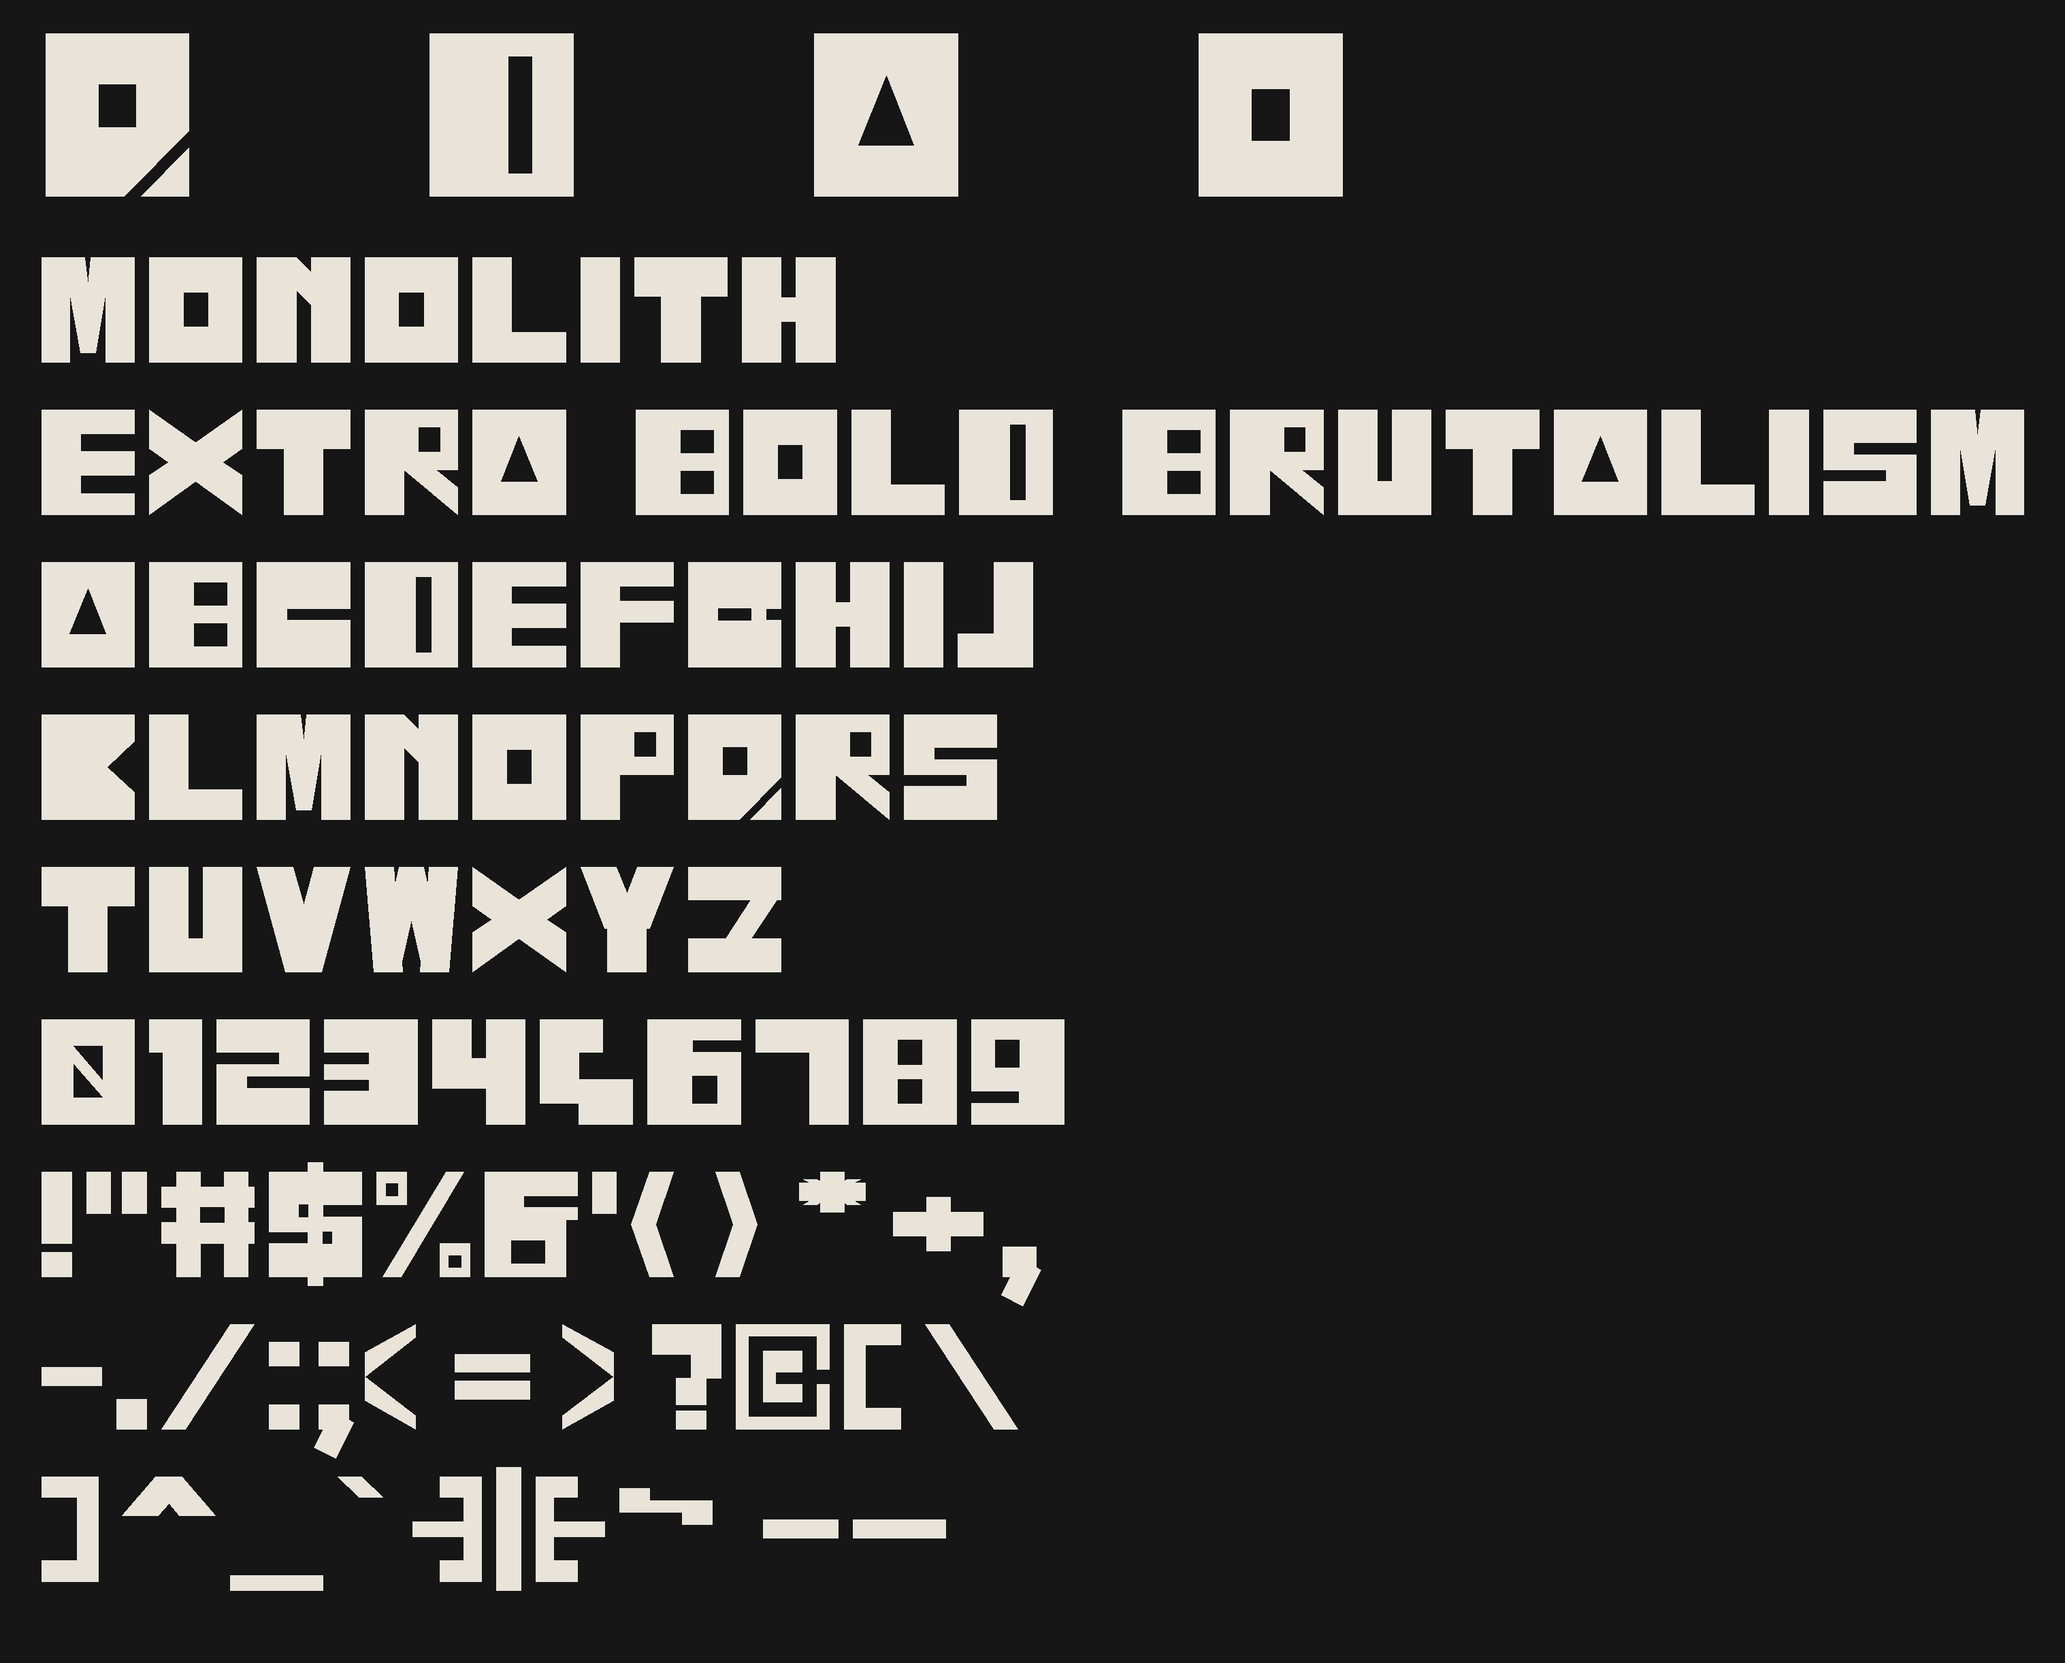
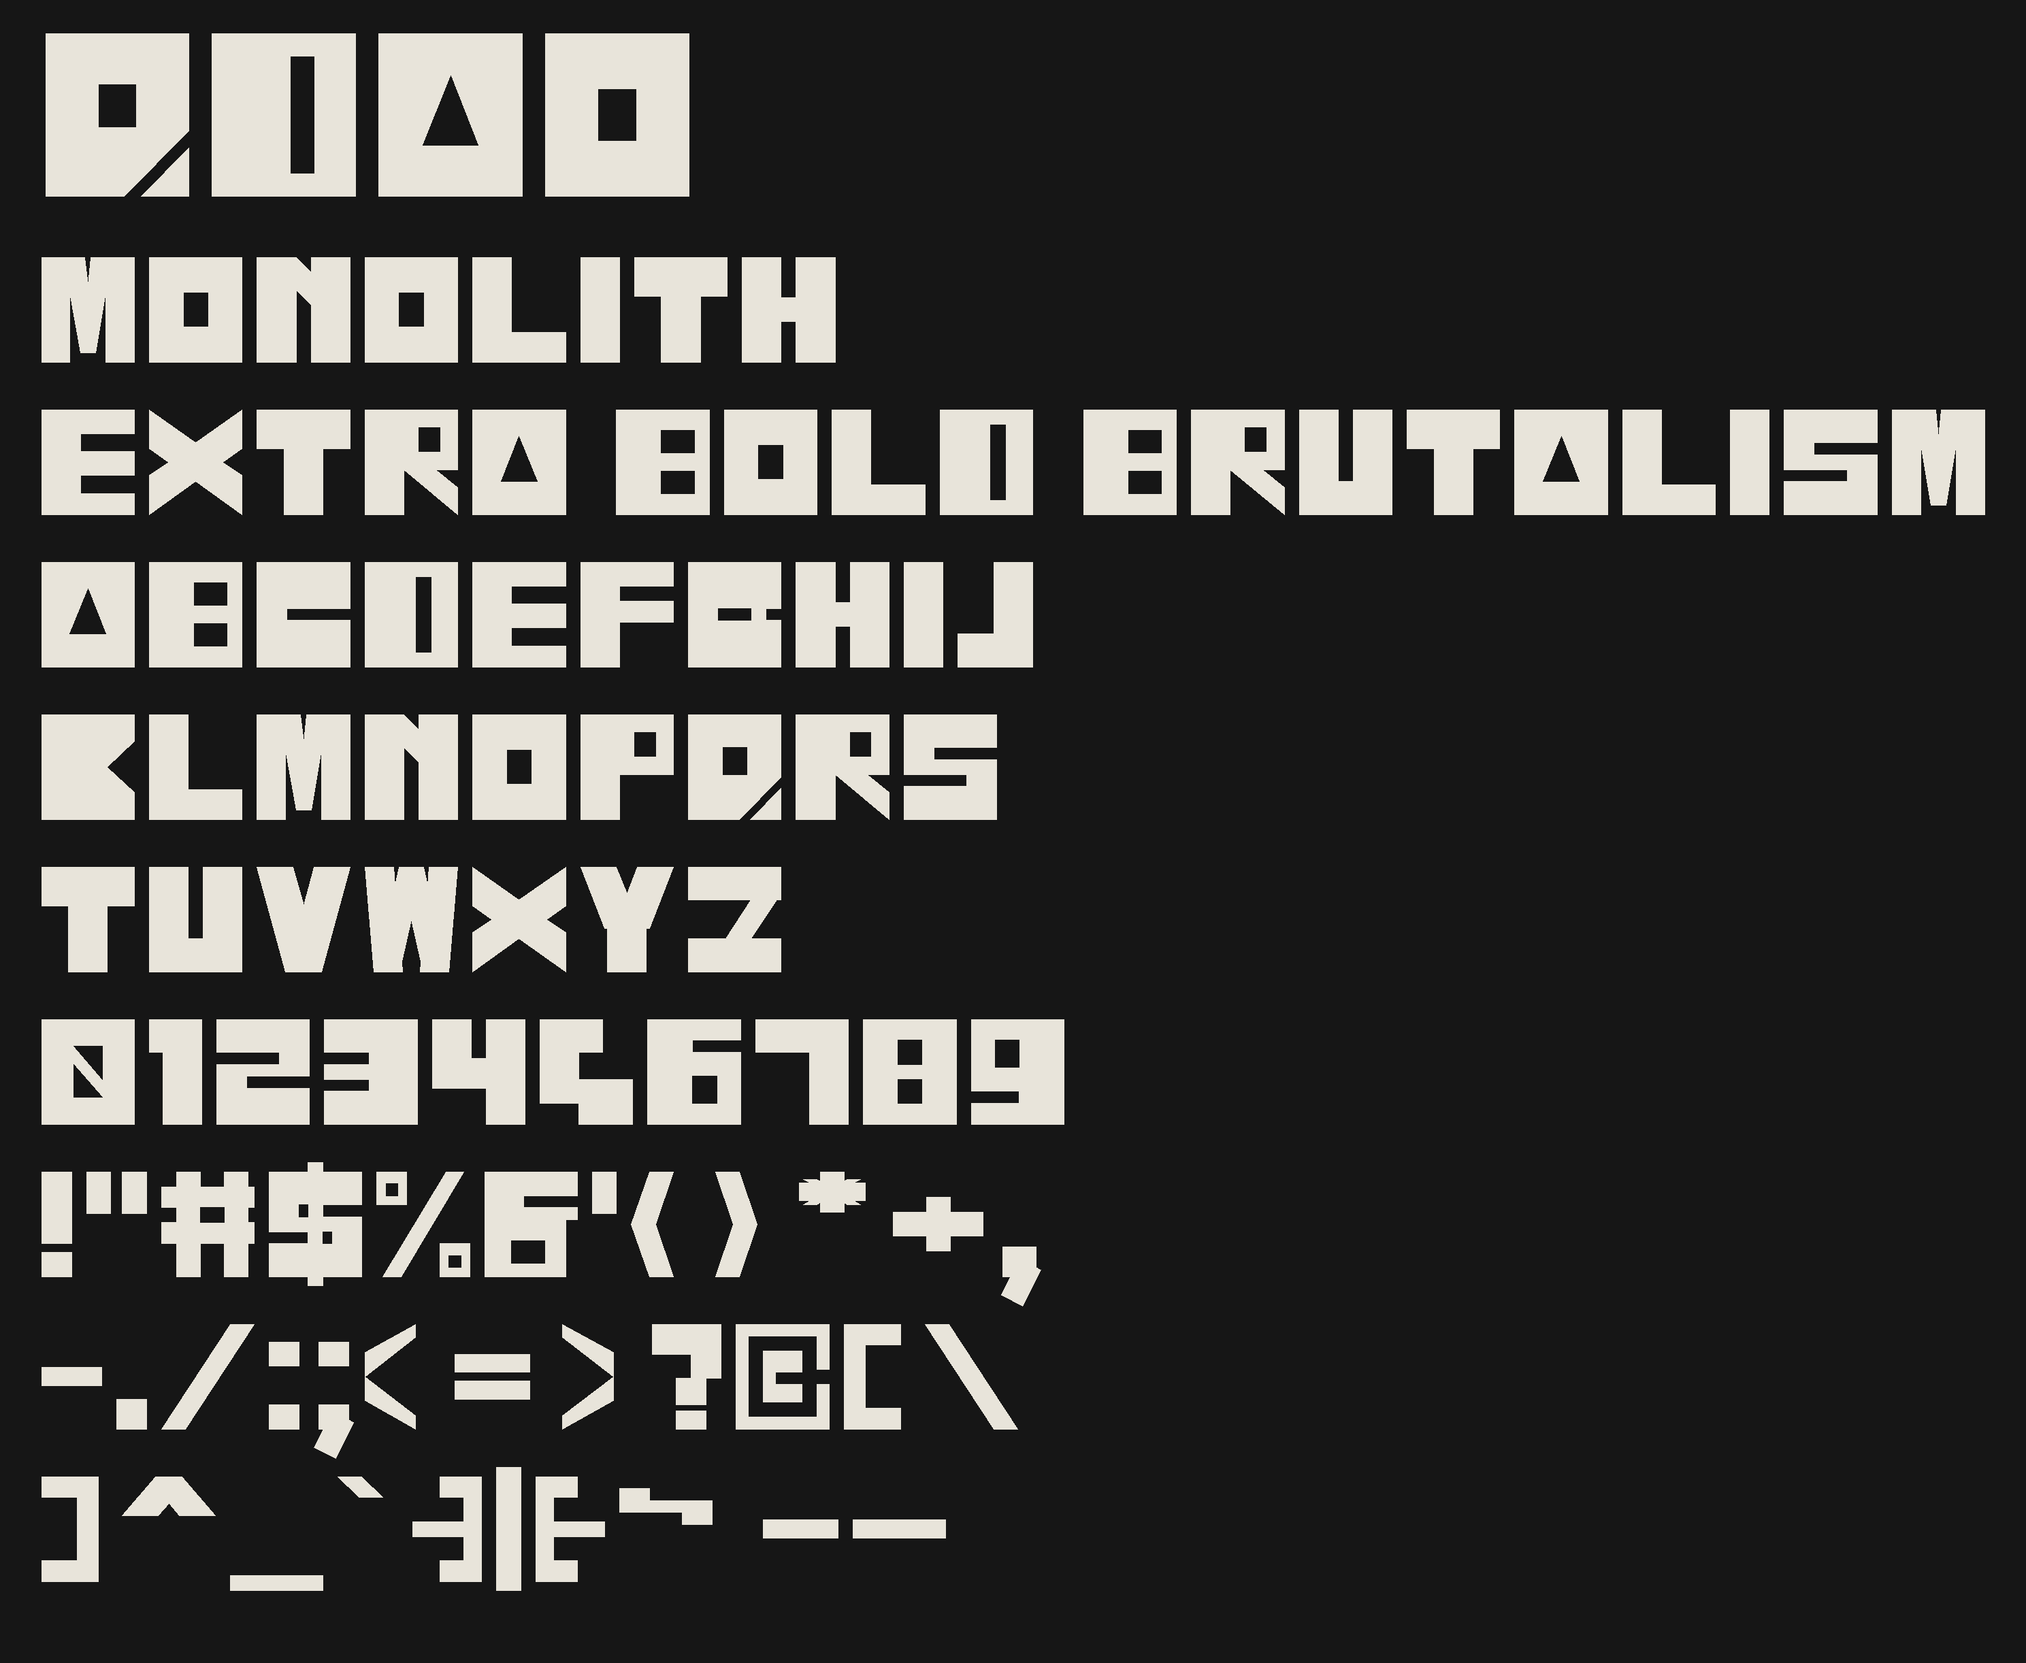
fix: specimens now shaped with HarfBuzz — PNGs match the real font spacing
specimen.py used to hand-roll layout: extra -40 tracking on the tight
sheet plus per-pair kern deltas from the metric data. That spacing
exists in no binary — the PNG misrepresented the shipped TTF/OTF.

The renderer now shapes every row with HarfBuzz and draws the returned
positions: default advances + GPOS kern for specimen.png, ss01
substitution for specimen-spaced.png, SPAC variations for the axis
renders. uharfbuzz moves to runtime deps. New test pins the contract:
kern on/off must change the AV canvas by exactly the -160-unit delta,
and shaped width must equal the binary's advances.

diff --git a/src/monolith/specimen.py b/src/monolith/specimen.py
@@ -1,15 +1,22 @@
-"""Render the MONOLITH specimen PNGs (tight + loose ss01) from the exported TTF."""
+"""Render the MONOLITH specimen PNGs from the exported binaries.
 
-from collections.abc import Callable, Sequence
+Layout is HarfBuzz shaping — the same class of engine browsers and
+layout apps run — so the PNGs show the font's real spacing: default
+advances with GPOS kern for the shipped look, ss01 substitution for the
+loose look, SPAC variations for the variable renders. No advance,
+kern, or tracking math is done here; if it isn't in the binary, it
+isn't in the PNG.
+"""
+
+from collections.abc import Sequence
 from pathlib import Path
 
+import uharfbuzz as hb
 from fontTools.pens.recordingPen import RecordingPen
 from fontTools.ttLib import TTFont
 from PIL import Image, ImageChops, ImageDraw
 
 from monolith.design import Point
-from monolith.kerning import kern_for
-from monolith.variable import instance_at_spac
 
 REPO_ROOT = Path(__file__).resolve().parents[2]
 DEFAULT_FONT = REPO_ROOT / "fonts" / "MONOLITH-ExtraBold.ttf"
@@ -31,18 +38,19 @@ def signed_area(c: Sequence[Point]) -> float:
 
 
 class SpecimenRenderer:
-    def __init__(self, font_path: str | Path, font: TTFont | None = None) -> None:
-        font = font if font is not None else TTFont(str(font_path))
+    def __init__(self, font_path: str | Path) -> None:
+        self.font_path = Path(font_path)
+        font = TTFont(str(font_path))
         self.gs = font.getGlyphSet()
         self.cmap = font.getBestCmap()
-        self._cache: dict[str | None, list[list[Point]]] = {}
+        self.order = font.getGlyphOrder()
+        self._cache: dict[str, list[list[Point]]] = {}
 
-    def contours(self, gname: str | None) -> list[list[Point]]:
+    def contours(self, gname: str) -> list[list[Point]]:
         if gname in self._cache:
             return self._cache[gname]
         pen = RecordingPen()
-        if gname is not None and gname in self.gs:
-            self.gs[gname].draw(pen)
+        self.gs[gname].draw(pen)
         cs, cur = [], []
         for op, args in pen.value:
             pts = [(a[0], a[1]) for a in args]
@@ -55,54 +63,47 @@ class SpecimenRenderer:
         self._cache[gname] = cs
         return cs
 
+    def shape(
+        self,
+        text: str,
+        features: dict[str, bool] | None = None,
+        variations: dict[str, float] | None = None,
+    ) -> list[tuple[str, float, float, float]]:
+        """Shape text with HarfBuzz: [(glyph_name, x_advance, x_offset, y_offset)]."""
+        blob = hb.Blob.from_file_path(str(self.font_path))
+        face = hb.Face(blob)
+        font = hb.Font(face)
+        if variations:
+            font.set_variations(variations)
+        buf = hb.Buffer()
+        buf.add_str(text)
+        buf.guess_segment_properties()
+        hb.shape(font, buf, features)
+        return [
+            (self.order[info.codepoint], pos.x_advance, pos.x_offset, pos.y_offset)
+            for info, pos in zip(buf.glyph_infos, buf.glyph_positions)
+        ]
+
     def render(
         self,
         showcase: str,
         rows: Sequence[str],
-        resolver: Callable[["SpecimenRenderer", str], str | None],
-        space_adv: float,
-        show_scale: float,
         scale: float,
-        show_track: float,
-        track: float,
+        show_scale: float,
         out: str | Path,
-        kerns: bool = False,
+        features: dict[str, bool] | None = None,
+        variations: dict[str, float] | None = None,
     ) -> None:
-        """resolver(renderer, ch) -> glyph name; spaces advance by space_adv.
-
-        kerns=True applies the seam-metric pair kerns between consecutive
-        non-space characters (the ss01 `.spaced` render leaves them off).
-        """
-        gs = self.gs
-
-        def gname_of(ch: str) -> str | None:
-            return None if ch == " " else resolver(self, ch)
-
-        def adv(gname: str | None) -> float:
-            return gs[gname].width if gname in gs else 600
-
-        def kern_delta(prev: str, ch: str, sc: float) -> float:
-            return kern_for(prev, ch) * sc if kerns else 0.0
-
-        def line_extent(text: str, sc: float, tr: float) -> float:
-            w = 0
-            prev = ""
-            for ch in text:
-                w += kern_delta(prev, ch, sc)
-                prev = ch
-                w += (space_adv if ch == " " else adv(gname_of(ch))) * sc + tr
-            return w - (tr if text else 0)
-
+        """Draw every string as a shaped run; spacing is whatever the font yields."""
         margin = 50
+
+        def run_width(text: str, sc: float) -> float:
+            return sum(a for _, a, _, _ in self.shape(text, features, variations)) * sc
+
         line_h = int(700 * scale) + 70
         show_line_h = int(700 * show_scale) + 90
         W = (
-            int(
-                max(
-                    [line_extent(s, show_scale, show_track) for s in showcase]
-                    + [line_extent(r, scale, track) for r in rows]
-                )
-            )
+            int(max([run_width(showcase, show_scale)] + [run_width(r, scale) for r in rows]))
             + 2 * margin
         )
         H = margin + show_line_h + len(rows) * line_h + margin
@@ -110,18 +111,8 @@ class SpecimenRenderer:
         img = Image.new("RGB", (W, H), BG)
         mask = Image.new("L", (W, H), 0)
 
-        def draw_line(text: str, x: float, y_base: float, sc: float, tr: float) -> float:
-            prev = ""
-            for ch in text:
-                if ch == " ":
-                    x += space_adv * sc + tr
-                    prev = ""
-                    continue
-                x += kern_delta(prev, ch, sc)
-                prev = ch
-                gname = resolver(self, ch)
-                if gname is None:
-                    continue
+        def draw_shaped(text: str, x: float, y_base: float, sc: float) -> float:
+            for gname, adv, xo, yo in self.shape(text, features, variations):
                 cs = self.contours(gname)
                 if cs:
                     # ink vs hole by winding: holes wind opposite to the body
@@ -131,35 +122,24 @@ class SpecimenRenderer:
                     td = ImageDraw.Draw(tmp)
                     for i, c in enumerate(cs):
                         td.polygon(
-                            [(x + p[0] * sc, y_base - p[1] * sc) for p in c],
+                            [(x + xo * sc + p[0] * sc, y_base - yo * sc - p[1] * sc) for p in c],
                             fill=0 if (areas[i] < 0) != (areas[body] < 0) else 255,
                         )
                     mask.paste(ImageChops.lighter(mask.crop((0, 0, W, H)), tmp), (0, 0))
-                x += adv(gname) * sc + tr
+                x += adv * sc
             return x
 
         y = margin + int(700 * show_scale)
-        x = margin
-        for ch in showcase:
-            x = draw_line(ch, x, y, show_scale, show_track) + show_track + 40
+        draw_shaped(showcase, margin, y, show_scale)
 
         y = margin + show_line_h + int(700 * scale)
         for row in rows:
-            draw_line(row, margin, y, scale, track)
+            draw_shaped(row, margin, y, scale)
             y += line_h
 
         img.paste(FG, (0, 0), mask)
         img.save(str(out))
         print("saved", out, img.size)
-
-
-def tight(r: SpecimenRenderer, ch: str) -> str | None:
-    return r.cmap.get(ord(ch))
-
-
-def spaced(r: SpecimenRenderer, ch: str) -> str | None:
-    n = r.cmap.get(ord(ch))
-    return (n + ".spaced") if n and (n + ".spaced") in r.gs else n
 
 
 def build_rows(cmap: dict[int, str]) -> list[str]:
@@ -192,29 +172,24 @@ def main(
     r = SpecimenRenderer(font_path)
     rows = build_rows(r.cmap)
     out_dir.mkdir(parents=True, exist_ok=True)
-    # tight variant: default tight advances, pair kerns, extra negative tracking
-    r.render(SHOWCASE, rows, tight, 240, 0.34, 0.22, 140, -40, out_dir / "specimen.png", kerns=True)
-    # spaced variant: .spaced alternates (+130 advance), no extra tracking
-    r.render(SHOWCASE, rows, spaced, 240 + 130, 0.34, 0.22, 140, 0, out_dir / "specimen-spaced.png")
+    # shipped look: default advances + GPOS kern, exactly as apps lay it out
+    r.render(SHOWCASE, rows, 0.22, 0.34, out_dir / "specimen.png")
+    # loose look: ss01 — the font's own .spaced alternates and their advances
+    r.render(SHOWCASE, rows, 0.22, 0.34, out_dir / "specimen-spaced.png", features={"ss01": True})
     if spac is not None:
-        # SPAC-axis variant: advances baked from the variable font at `spac`
+        # SPAC-axis variant: the variable font shaped at `spac`
         vpath = Path(variable_font_path) if variable_font_path else DEFAULT_VARIABLE_FONT
         if not vpath.exists():
             raise SystemExit(
                 f"variable font not found: {vpath}\n"
                 "Export it from Glyphs: File > Export > Variable (see README)"
             )
-        inst = instance_at_spac(vpath, spac)
-        rv = SpecimenRenderer(vpath, font=inst)
+        rv = SpecimenRenderer(vpath)
         rv.render(
             SHOWCASE,
             rows,
-            tight,
-            rv.gs["space"].width,
-            0.34,
             0.22,
-            140,
-            0,
+            0.34,
             out_dir / f"specimen-spac{spac}.png",
-            kerns=True,
+            variations={"SPAC": spac},
         )

diff --git a/tests/test_specimen.py b/tests/test_specimen.py
@@ -1,4 +1,9 @@
-"""Specimen renderer smoke test. Skips when the font hasn't been exported."""
+"""Specimen renderer smoke test. Skips when the font hasn't been exported.
+
+The renderer shapes with HarfBuzz, so these also pin the layout contract:
+a rendered line's spacing comes from the binary (advances + GPOS kern +
+features), never from hand-rolled math.
+"""
 
 from pathlib import Path
 
@@ -7,16 +12,17 @@ from PIL import Image
 
 REPO_ROOT = Path(__file__).resolve().parents[1]
 FONT = REPO_ROOT / "fonts" / "MONOLITH-ExtraBold.ttf"
+VF = REPO_ROOT / "fonts" / "MONOLITH-Variable.ttf"
 
 
 def test_render_one_row(tmp_path: Path) -> None:
     if not FONT.exists():
         pytest.skip("font not built yet (export from Glyphs first)")
-    from monolith.specimen import SpecimenRenderer, tight
+    from monolith.specimen import SpecimenRenderer
 
     r = SpecimenRenderer(FONT)
     out = tmp_path / "tiny.png"
-    r.render("Q", ["QDA", "0123"], tight, 240, 0.34, 0.22, 140, -40, out)
+    r.render("Q", ["QDA", "0123"], 0.22, 0.22, out)
     assert out.exists()
     assert out.stat().st_size > 0
 
@@ -24,30 +30,34 @@ def test_render_one_row(tmp_path: Path) -> None:
 def test_render_spac_row(tmp_path: Path) -> None:
     if not FONT.exists():
         pytest.skip("font not built yet (export from Glyphs first)")
-    from monolith import variable
-    from monolith.specimen import SpecimenRenderer, tight
-
-    vf = REPO_ROOT / "fonts" / "MONOLITH-Variable.ttf"
-    if not vf.exists():
+    if not VF.exists():
         pytest.skip("variable font not exported from Glyphs yet")
-    inst = variable.instance_at_spac(vf, 30)
-    r = SpecimenRenderer(vf, font=inst)
+    from monolith.specimen import SpecimenRenderer
+
+    r = SpecimenRenderer(VF)
     out = tmp_path / "tiny30.png"
-    r.render("Q", ["QDA"], tight, inst["hmtx"]["space"][0], 0.34, 0.22, 140, 0, out)
+    r.render("Q", ["QDA"], 0.22, 0.22, out, variations={"SPAC": 30})
     assert out.exists()
     assert out.stat().st_size > 0
 
 
-def test_kerns_narrow_rendered_lines(tmp_path: Path) -> None:
+def test_layout_is_shaper_truth(tmp_path: Path) -> None:
+    """Kern on/off must change the canvas by exactly the GPOS delta.
+
+    AV kerns -160 units; at scale 0.22 the kerned render is ~35 px narrower,
+    and the shaped run width must equal the sum of HarfBuzz advances.
+    """
     if not FONT.exists():
         pytest.skip("font not built yet (export from Glyphs first)")
-    from monolith.specimen import SpecimenRenderer, tight
+    from monolith.specimen import SpecimenRenderer
 
     r = SpecimenRenderer(FONT)
-    out_plain = tmp_path / "plain.png"
-    out_kern = tmp_path / "kern.png"
-    r.render("AV", ["AV"], tight, 240, 0.22, 0.22, 0, 0, out_plain)
-    r.render("AV", ["AV"], tight, 240, 0.22, 0.22, 0, 0, out_kern, kerns=True)
-    # AV kerns -160 units; at scale 0.22 the canvas shrinks by ~35 px
-    delta = Image.open(out_plain).size[0] - Image.open(out_kern).size[0]
+    out_on = tmp_path / "on.png"
+    out_off = tmp_path / "off.png"
+    r.render("AV", ["AV"], 0.22, 0.22, out_on)
+    r.render("AV", ["AV"], 0.22, 0.22, out_off, features={"kern": False})
+    delta = Image.open(out_off).size[0] - Image.open(out_on).size[0]
     assert delta in (35, 36)
+    # the renderer's own shaping agrees with the binary's metrics
+    shaped = r.shape("AV")
+    assert sum(a for _, a, _, _ in shaped) == 1020  # 590 + 590 - 160

diff --git a/README.md b/README.md
@@ -84,6 +84,11 @@ uv run monolith-specimen        # writes specimens/specimen{,-spaced}.png
 uv run monolith-specimen --spac 30   # + specimens/specimen-spac30.png (needs the variable font)
 ```
 
+Specimen rows are laid out by shaping the exported binaries with HarfBuzz,
+so the PNGs show the font's real spacing — default advances + GPOS kern,
+`ss01` substitution for the loose sheet, `SPAC` variations for the axis
+sheet. Nothing is hand-adjusted.
+
 ## Development
 
 ```sh
